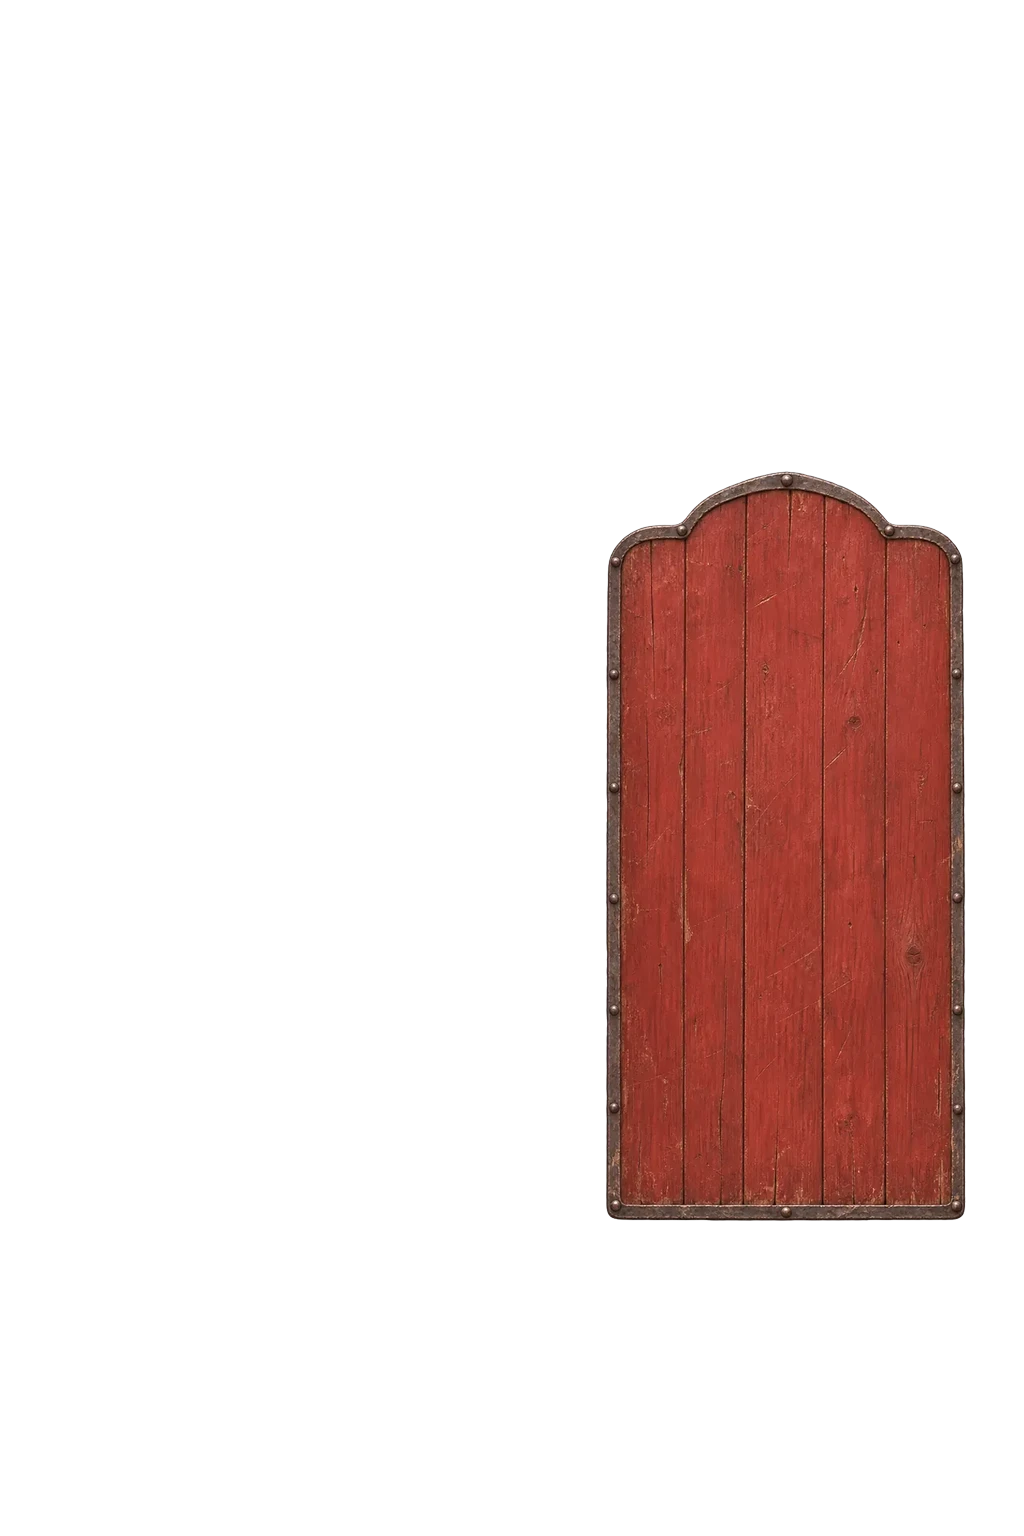
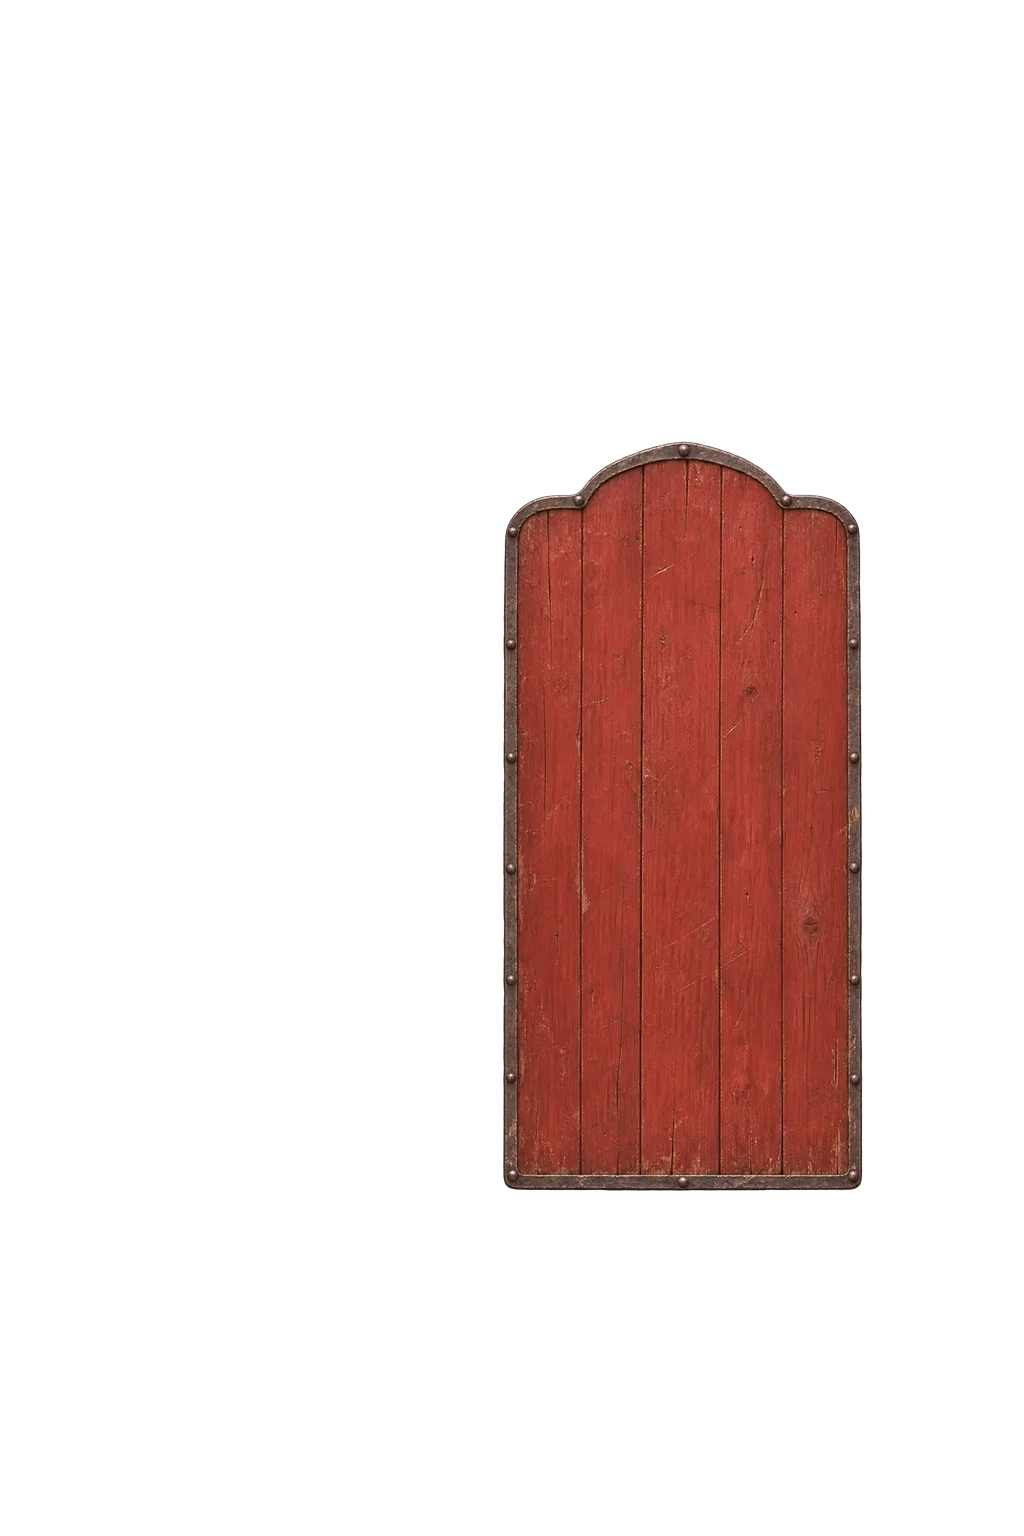
Štíty v ruce posunuté před tělo (levé předloktí)
Claude-Session: https://claude.ai/code/session_01Q25kmxKucwLhnUcj4Ap4v4

Changed region(s): [[0.4688, 0.2812, 0.9688, 0.8125]]

diff --git a/nastroje/zbrane_do_rukou.py b/nastroje/zbrane_do_rukou.py
@@ -107,7 +107,7 @@ for sx in ("muz", "zena"):
             gy = .93; out = poloz(n, H, (stred_x(im, gy), gy), (P["x"], P["y"]), 180)
         uloz(out, f"zbran-ruka-{z}-{sx}")
     for s_, cm in STITY.items():
-        H = cm * PX; out = poloz(s_, H, (.5, .45), (Lv["x"] + 8, Lv["y"] - 30), 0); uloz(out, f"stit-ruka-{s_[5:]}-{sx}")
+        H = cm * PX; out = poloz(s_, H, (.5, .45), (Lv["x"] - 95, Lv["y"] - 60), 0); uloz(out, f"stit-ruka-{s_[5:]}-{sx}")   # štít před tělem na levém předloktí
     out = poloz("svetlo-louc", 55 * PX, (stred_x(obsah("svetlo-louc"), .62), .62), (Lv["x"], Lv["y"]), 0); uloz(out, f"svetlo-louc-ruka-{sx}")
 json.dump(info, open(POS / "ruce.json", "w"), indent=1)
 j = json.load(open(POS / "skryva.json"))
